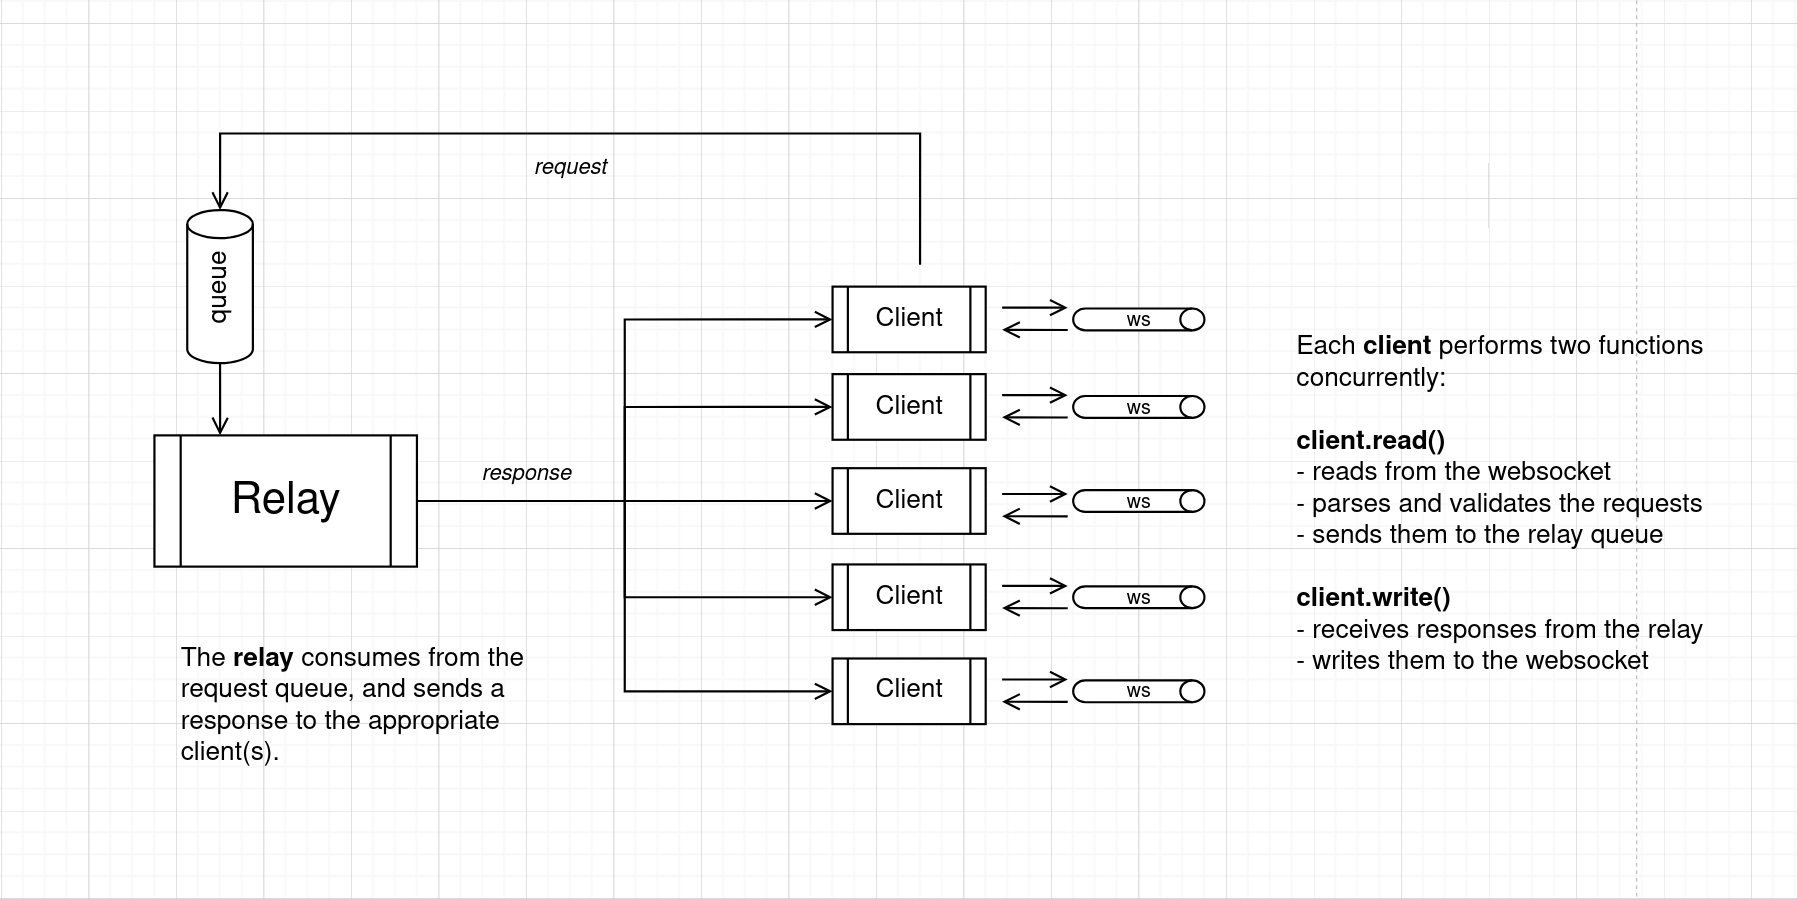
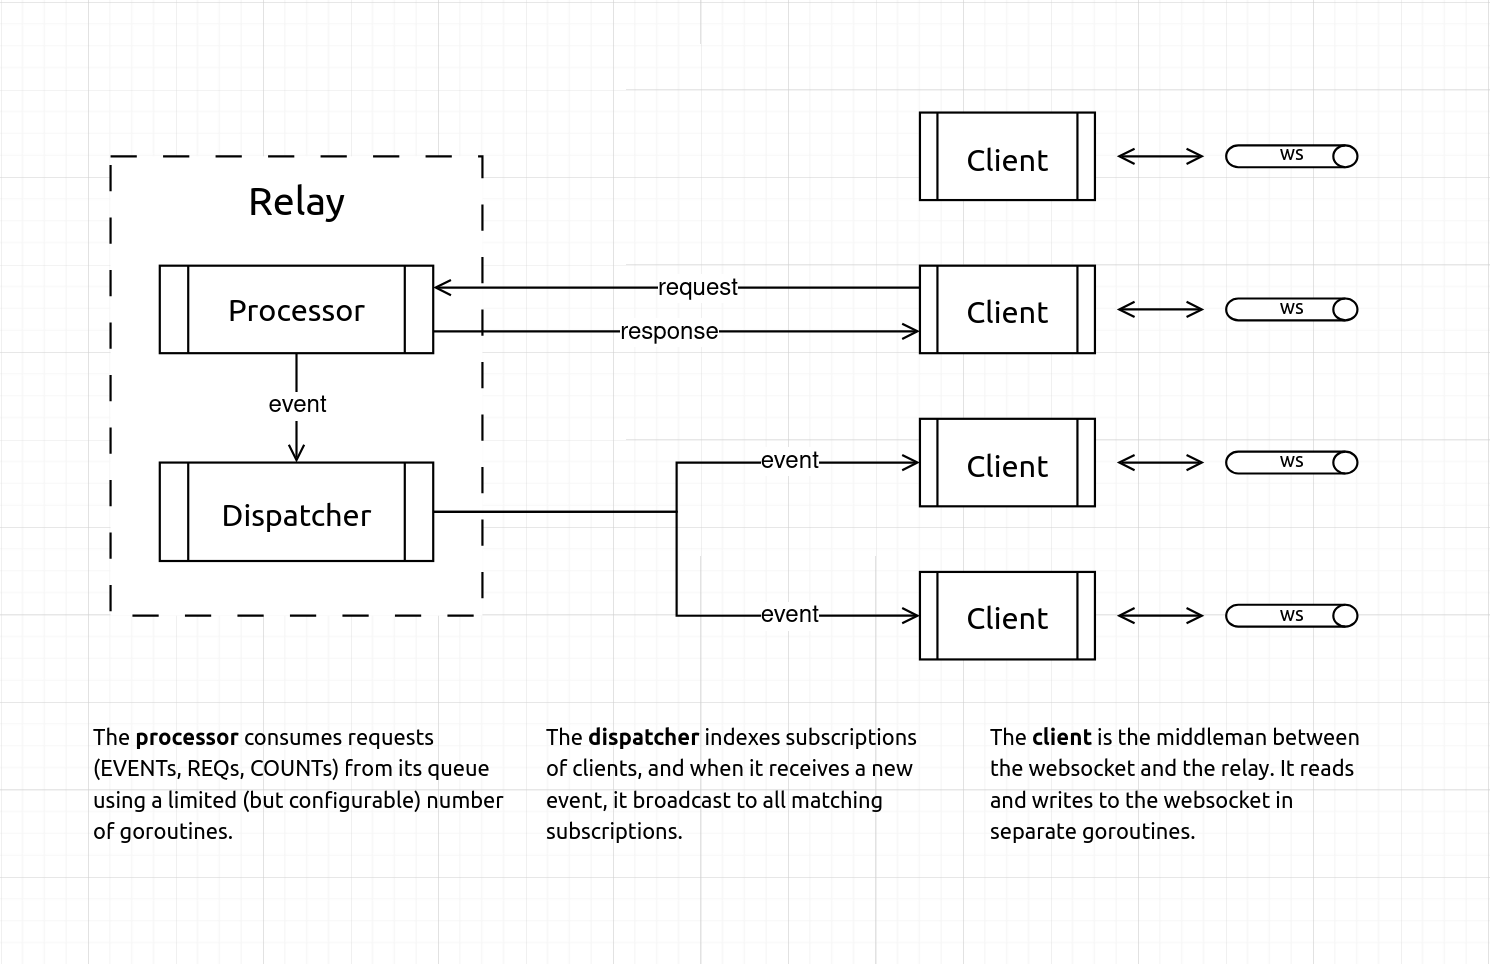
updated README fixed a few comments

diff --git a/options.go b/options.go
@@ -29,8 +29,9 @@ func WithDomain(d string) Option {
 	return func(r *Relay) { r.domain = strings.TrimSpace(d) }
 }
 
-// WithInfo sets a custom NIP-11 (Relay Information Document) JSON body returned at the '/' endpoint.
-// The provided struct is marshaled into the JSON payload. If not set, a default document is used.
+// WithInfo sets a custom NIP-11 (Relay Information Document) JSON body returned
+// when a request includes `Accept: application/nostr+json`.
+// If not set, a default document is used.
 func WithInfo(info nip11.RelayInformationDocument) Option {
 	return func(r *Relay) {
 		json, err := json.Marshal(info)
@@ -65,7 +66,7 @@ func WithMaxProcessors(n int) Option {
 // WithClientResponseLimit sets the maximum number of responses that can be buffered and sent
 // to a single client connection before backpressure is applied. Must be greater than 0.
 //
-// For each REQ, the framework dynamically adjusts the "limit" across all filters
+// For each REQ, the framework dynamically adjusts the "limit" field across all filters
 // to be less than the remaining capacity of the client's response channel:
 //
 //	sum filter's limit <= responseLimit - len(client.responses)

diff --git a/client.go b/client.go
@@ -54,7 +54,7 @@ type Client interface {
 	// Subscriptions returns a snapshot of the currently active [Subscription]s of the client.
 	Subscriptions() []Subscription
 
-	// SendNotice to the client, useful for greeting, warnings and other informational messages.
+	// SendNotice to the client, useful for greetings, warnings and other informational messages.
 	SendNotice(msg string)
 
 	// SendAuth sends the client a newly generated AUTH challenge.

diff --git a/README.md b/README.md
@@ -1,6 +1,5 @@
 # rely
-A framework for building super custom [Nostr](https://github.com/nostr-protocol/nostr) relays you can *rely* on.
-Designed to be simple and stable. About 1500 lines of code.
+A framework for building super custom [Nostr](https://github.com/nostr-protocol/nostr) relays you can *rely* on. Written in Go, it's designed to be simple and performant, while providing an exeptional developer experience.
 
 ## Installation
 ```
@@ -19,27 +18,32 @@ relay.StartAndServe(ctx, "localhost:3334")
 Fine-tune core parameters using functional options:
 
 ```golang
-relay := NewRelay(
-    WithDomain("example.com"),      // required for proper NIP-42 validation
-	WithQueueCapacity(10_000),   	// increase capacity to absorb traffic bursts (higher RAM)
-	WithMaxProcessors(10),       	// increase concurrent processors for faster execution (higher CPU)
+relay := rely.NewRelay(
+    rely.WithDomain("myDomain.com"),	// required for NIP-42 validation
+	rely.WithLogger(myLogger),			// configure the relay logger
+	rely.WithInfo(myRelayInfo)			// set up nip-11 information document
 )
 ```
 
+To find all the available options and documentation, see [options.go](/options.go).
+
 ### Behavioral Customization
 
-Define behavior by simply writing `RelayFunctions`:
+You are not limited to simple configuration variables. The relay architecture facilitates complete behavioral customization by allowing you to inject your own functions into its `Hooks`. This gives you full control over the connection lifecycle, event flow and rate-limiting, enabling any custom business logic.
+
+Below is a silly example that illustrates rely's flexibility.
+
 ```golang
 func main() {
 	// ...
-	relay.RejectConnection = append(relay.RejectConnection, BadIP)
-	relay.RejectEvent = append(relay.RejectEvent, RejectSatan)
-	relay.OnEvent = Save
+	relay.Reject.Connection = append(relay.Reject.Connection, BadIP)
+	relay.Reject.Event = append(relay.Reject.Event, RejectSatan)
+	relay.On.Event = Save	// your custom DB save
 }
 
 func BadIP(s Stats, req *http.Request) error {
 	if slices.Contains(blacklist, IP(req)) {
-		return fmt.Errorf("you are not welcome here")
+		return fmt.Errorf("you shall not pass!")
 	}
 	return nil
 }
@@ -54,68 +58,121 @@ func RejectSatan(client Client, event *nostr.Event) error {
 }
 ```
 
+You can find all the available hooks and documentation, in [hooks.go](/hooks.go).  
+If you need additional hooks, don't hesitate to [open an issue](https://github.com/pippellia-btc/rely/issues/new)!
+
+If you are looking for inspiration or examples, check out the [examples](/examples/) directory.
+
+### Intuitive interfaces
+
+If you've read the [NIP-01](https://github.com/nostr-protocol/nips/blob/master/01.md), you already know how to use rely.  
+Don't believe it? These three are the only interfaces that you'll have to deal with:
+
+- [Relay](/relay.go)
+- [Client](/client.go)
+- [Subscription](/subscription.go)
+
+No obscure structures leaking implementation details, just intuitive methods that almost require no explanation. As an example, these are some of the methods of the `Client` interface (all safe for concurrent use).
+
+```golang
+type Client interface {
+	IP() string
+	
+	Pubkey() string
+
+	ConnectedAt() time.Time
+
+	Subscriptions() []Subscription
+
+	SendNotice(msg string)
+
+	SendAuth()
+
+	Disconnect()
+
+	// All other methods...
+	// (don't fear, there are be comments and docs for all methods)
+}
+```
+
+## Performant
+
+Rely is completely written in Go, a memory-safe and low level language that is easy to learn and performant. It's particularly fit for building server-side applications thanks to its powerful concurrency primitives like channels and goroutines.
+
+These features are extensively used in rely, creating a lock-free architecture on the hot-paths.  
+Inspired by [strfry](https://github.com/hoytech/strfry), rely also implements inverted indexes for matching broadcasted events with subscriptions, making this crucial operation very efficient. For more, check out the [architecture section](#architecture).
+
+All of these optimizations allow a [dummy implementation](https://github.com/pippellia-btc/rely/blob/main/tests/random_test.go) using rely to serve 8000+ concurrent "spammy" clients with less than 1GB of RAM on a 2017 i5 CPU (4-cores).
+
 ## Secure by Design
 
 To prevent resource abuse, each client is assigned a fixed-size queue for outgoing messages.  
-Before processing each `REQ`, the relay calculates the remaining free space and uses that number as a hard cap for the filters' limits. If the total request exceeds the budget, the larger filters are scaled down proportionally.  
-This prevents waste of CPU and bandwidth on events that the client will not see, and penalizes clients that request more than they consume.
+Before processing each `REQ`, the relay calculates the remaining free space and uses that number as a hard cap for the filters' limits. If the total request exceeds the budget, the larger filters are scaled down proportionally.
 
-To configure the client’s queue capacity—and thus the maximum number of messages that can be sent at once—use:
+Here is an example illustrating it.
+``` 
+1. client's queue has a free capacity of 300.
 
-```golang
-relay := NewRelay(
-    WithClientResponseLimit(100) // set max queue size to 100 messages per client
-)
+2. client sends a REQ with two filters f1 and f2.
+	f1: limit=10		f2: no limit
+
+3. the filters' limits are modified to match the free capacity:
+	f1: limit=10		f2: limit=290
 ```
 
+This prevents waste of CPU and bandwidth on events the client will not see, and penalizes clients that request more than they consume. The size of the client's queue can be customized with the appropriate [option](/options.go).
 
-## Why another framework
-I started this new framework inspired by [khatru](https://github.com/fiatjaf/khatru) but also frustrated by it.
-Despite its initial simplicity, achieving deep customization means dealing with (and understanding) the khatru relay structure.
-For the brave among you, here is the [khatru relay struct](https://github.com/fiatjaf/khatru/blob/master/relay.go#L54), and for the even braver, here is the almighty [HandleWebsocket method](https://github.com/fiatjaf/khatru/blob/master/handlers.go#L54).
-
-As a [grug brain dev](https://grugbrain.dev/), I believe that complexity kills good software.
-Instead, I've built a simple architecture that doesn't introduce unnecessary abstractions:
-There is a relay, there are clients connecting to it, each with their own subscriptions. That's it.
+## Architecture
 
 ![](architecture.png)
 
+### Client
+
+The Client is the middleman between the websocket connection and the Relay. It reads and writes to the websocket in two separated goroutines, ensuring proper serialization.
+
+**Client.read**:
+- reads from the websocket and parses nostr messages
+- applies the user defined `Reject` hooks
+- sends to the Processor's queue
+- handles NIP-42 authentication
+
+**Client.write**:
+- receives responses in a dedicated queue
+- writes them to the websocket
+
+### Processor
+
+The Processor received incoming requests (REQs, EVENTs, COUNTs), and handles them by applying the user defined `On` hooks (e.g. `On.Event`, `On.Req`, `On.Count`). It consumes from a dedicated queue with a limited but configurable number of worker goroutines.
+
+### Dispatcher
+
+The Dispatcher is responsible for broadcasting newly received events to all matching subscriptions.
+To accomplish this task efficiently, it maintains inverted indexes for all active subscriptions of all clients, an approach inspired by [strfry](https://github.com/hoytech/strfry).
+
+However, the Dispatcher is not the ultimate authority on the subscriptions state. Each client is the authority for its own subscriptions, while the dispatcher only maintains an eventually-consistent snapshot of the active ones. This decision is motivated by two reasons:
+
+1. having CLOSEs cancel the subscriptions as fast as possible to save work.
+2. making calls to `Client.Subscriptions` very efficiently.
+
 ## Well tested
-How do you test a relay framework?
 
-You bombard [a dummy implementation](https://github.com/pippellia-btc/rely/blob/main/tests/random_test.go) with thousands of connections, random events, random filters, random disconnects, and see what breaks. Then you fix it and repeat. If you find bugs please open a well-written issue and I'll fix it.
-
-[Here is a video](https://m.primal.net/QECM.mp4) showing rely handling up to 3500 concurrent clients, each sending one EVENT/REQ/s, all while handling 100 new http requests/s.
+Rely fetures unit tests for components that make sense to test in isolation.
+More importantly, we have a [random stress test](https://github.com/pippellia-btc/rely/blob/main/tests/stress_test.go) where the relay is bombarded with thousands of connections, events, filters, and abrupt disconnections every second. This test alone allowed the discovery of hard concurrency bugs and race conditions impossible to detect with simplistic unit tests.
 
 ## FAQs
 
 <details>
-<summary>Why does `relay.OnReq` accept multiple filters?</summary>
+<summary>Why does On.Req accept multiple filters?</summary>
 
-Because I don't want to hide the fact that a REQ can contain multiple filters, and I want the user of the framework to deal with it.  
-For example, he/she can decide to reject REQs that contain too many filters, or doing something like the following
+As per [NIP-01](https://github.com/nostr-protocol/nips/blob/master/01.md), a REQ can contain multiple filters. Returning only one filter (at the time) would prevent the user of rely from implementing custom query optimizations.
 
-```golang
-func TooMany(client rely.Client, filters nostr.Filters) error {
-    total := len(filters)
-    for _, sub := range client.Subscriptions() {
-        total += len(sub.Filters)
-    }
-
-    if total > 10 {
-        client.Disconnect()
-        return errors.New("rate-limited: too many open filters")
-    }
-    return nil
-}
-```
+You can always loop through the filters and make a query for each.
 </details>
 
 <details>
-<summary>When [feature you like] ?</summary>
+<summary>When NIP-86?</summary>
 
-Open a well written issue and make a case for why it should be added. Keep in mind that, being a [grug brain dev](https://grugbrain.dev/), I believe:
-
-> best weapon against complexity spirit demon is magic word: "no"
+Does anyone uses NIP-86? If so, please let me know.  
+Just so you know, you can embedd the `Relay` inside an http server, where you can configure all the methods you want.
 
 </details>
